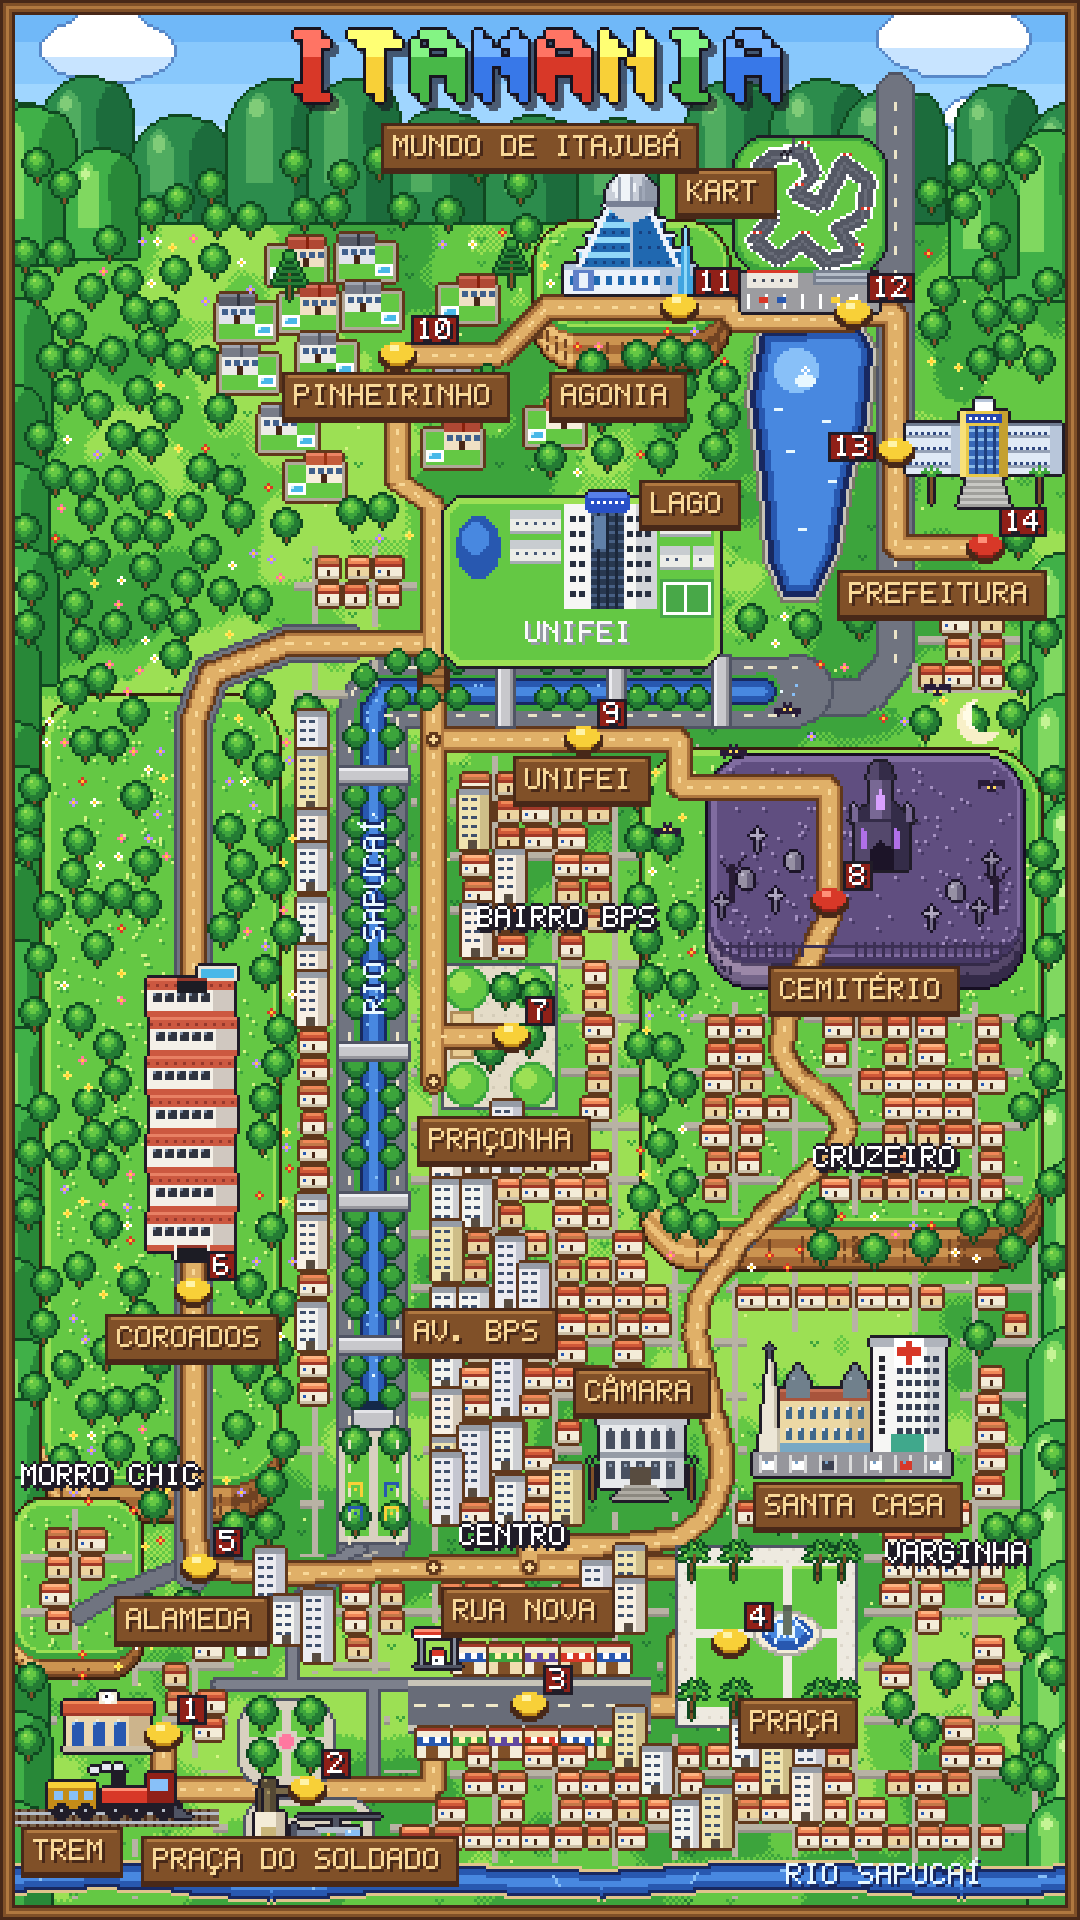
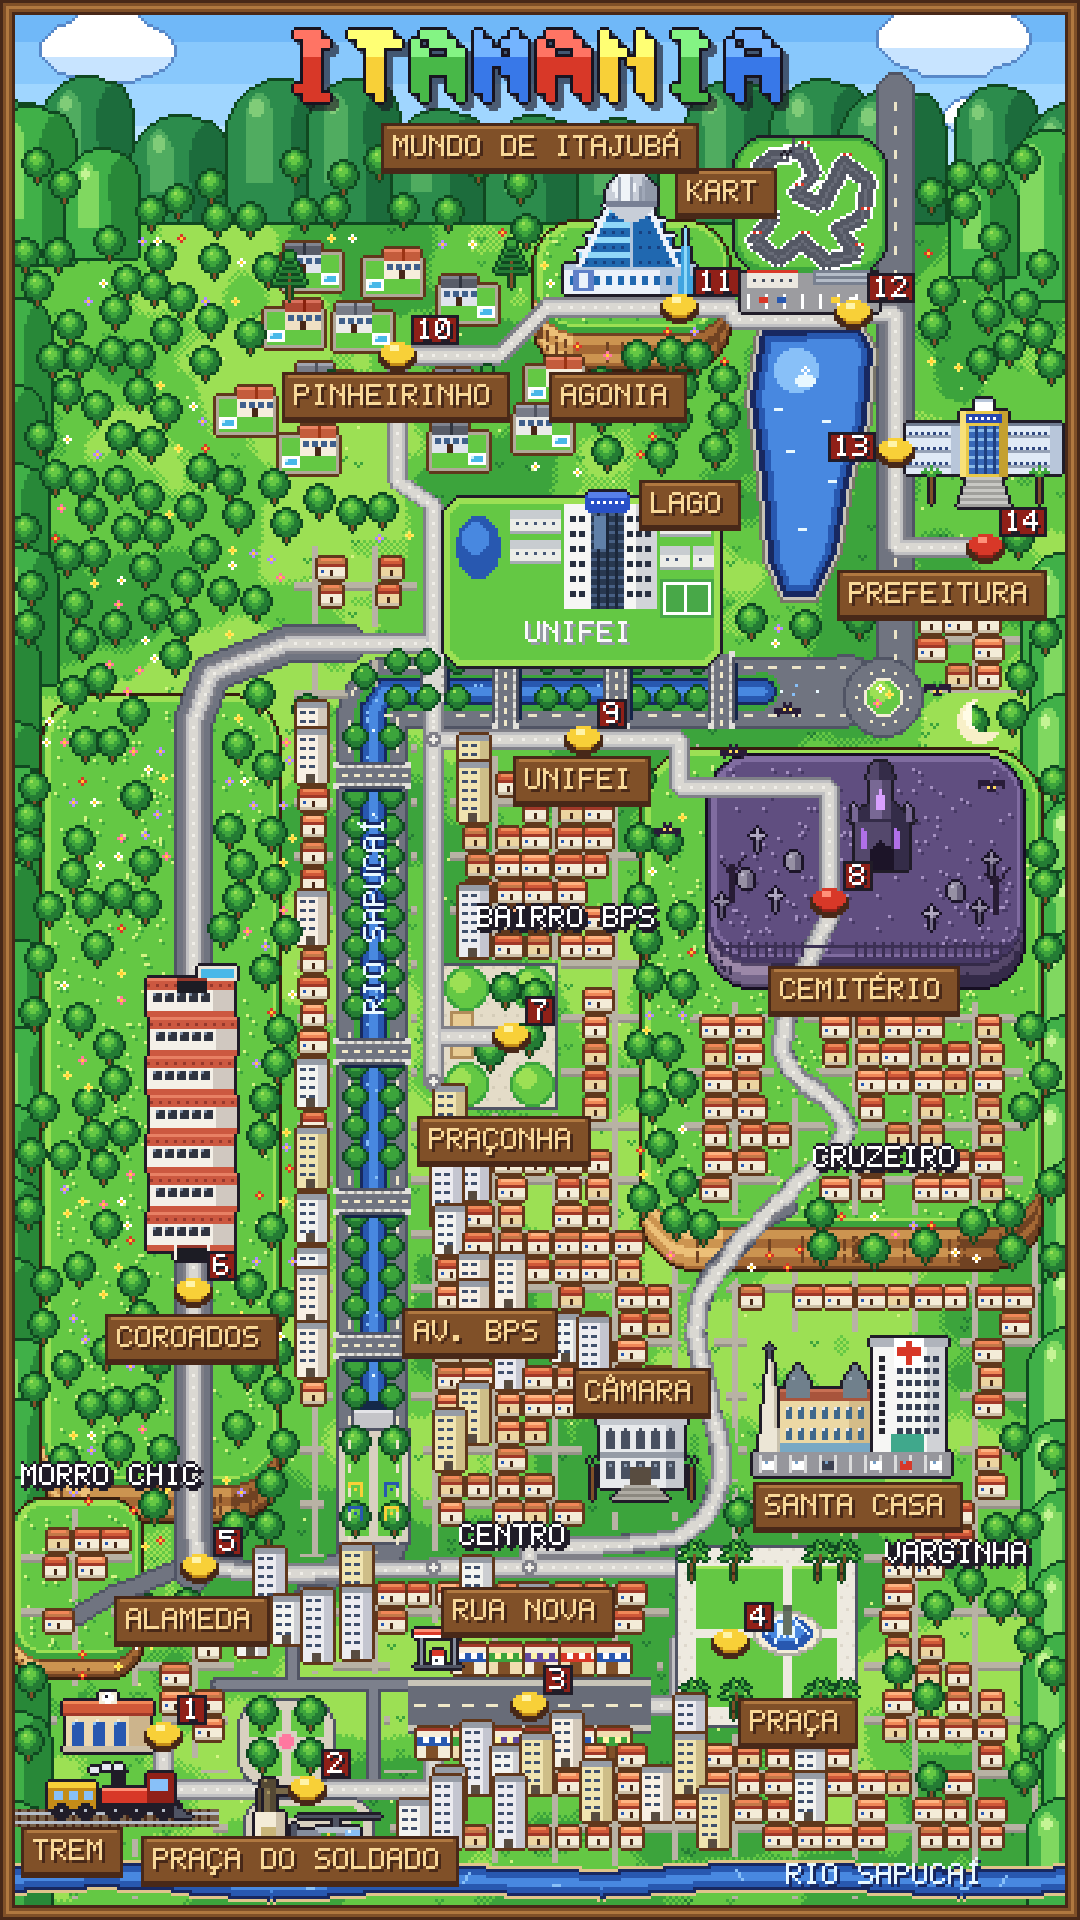
Mapa do Itamania: pontes harmônicas, trilhas de pedra clara e rotatória
Pontes com deck de asfalto, mureta de pedra e sombra na água; trilhas entre
as fases mais finas e em pedra cinza-clara; rotatória no encontro da BPS com a
avenida da Prefeitura.

Claude-Session: https://claude.ai/code/session_01PQYRHDQbqQUf94eH7bEkMV

diff --git a/ferramentas/mapa-mundi/gerar_mapa.py b/ferramentas/mapa-mundi/gerar_mapa.py
@@ -1433,6 +1433,43 @@ def palmeira(base, x, y):
     colar(base, s, x, y, C['gl'])
 
 
+def ponte(d, cx, cy, vao, larg, vertical, deck=(112, 116, 128), faixa=True):
+    """Ponte bonitinha: deck do mesmo asfalto da rua, mureta de pedra clara com pilaretes, e sombra na água.
+    vertical=True: a ponte atravessa um rio que corre na horizontal (deck de pé)."""
+    pedra, pedra2, contorno_ = (226, 224, 218), (170, 168, 162), C['ci0']
+    h = larg // 2
+    if not vertical:
+        x0, x1 = cx - vao // 2, cx + vao // 2
+        ret(d, x0 + 3, cy + h + 2, x1 - 3, cy + h + 3, (20, 36, 72))      # sombra na água
+        ret(d, x0, cy - h - 2, x1, cy + h + 2, contorno_)
+        ret(d, x0, cy - h, x1, cy + h, deck)
+        for yy in (cy - h - 1, cy + h + 1):
+            ret(d, x0, yy, x1, yy, pedra)
+            for xx in range(x0, x1 + 1, 3):
+                px(d, xx, yy, pedra2)
+        for xx in (x0, x1):
+            ret(d, xx - 1, cy - h - 2, xx, cy - h - 1, pedra)
+            ret(d, xx - 1, cy + h + 1, xx, cy + h + 2, pedra)
+        if faixa:
+            for xx in range(x0 + 2, x1 - 1, 4):
+                ret(d, xx, cy, xx + 1, cy, (240, 232, 200))
+    else:
+        y0, y1 = cy - vao // 2, cy + vao // 2
+        ret(d, cx + h + 2, y0 + 3, cx + h + 3, y1 - 3, (20, 36, 72))
+        ret(d, cx - h - 2, y0, cx + h + 2, y1, contorno_)
+        ret(d, cx - h, y0, cx + h, y1, deck)
+        for xx in (cx - h - 1, cx + h + 1):
+            ret(d, xx, y0, xx, y1, pedra)
+            for yy in range(y0, y1 + 1, 3):
+                px(d, xx, yy, pedra2)
+        for yy in (y0, y1):
+            ret(d, cx - h - 2, yy - 1, cx - h - 1, yy, pedra)
+            ret(d, cx + h + 1, yy - 1, cx + h + 2, yy, pedra)
+        if faixa:
+            for yy in range(y0 + 2, y1 - 1, 4):
+                ret(d, cx, yy, cx, yy + 1, (240, 232, 200))
+
+
 # ---------------------------------------------------------------- mapa (em pé)
 def main():
     base = terreno()
@@ -1486,13 +1523,13 @@ def main():
 
     # ----- Av. BPS: eixo central da cidade, com o rio correndo no meio, até o lago
     # Av. Dr. Jerson Dias: corre de norte a sul a leste do lago e do kart e encontra a BPS
-    jerson = [(298, 30), (298, 220), (288, 232), (262, 232)]
+    jerson = [(298, 30), (298, 222)]
     linha_grossa(d, jerson, 13, C['ci0'])
     linha_grossa(d, jerson, 11, (112, 116, 128))
     for y in range(34, 220, 8):
         ret(d, 298, y, 298, y + 2, (236, 228, 200))
     dl.line(jerson, fill=255, width=15)
-    eixo = [(124, 514), (124, 236), (128, 230), (266, 230)]
+    eixo = [(124, 514), (124, 236), (128, 230), (282, 230)]
     # o Rio Sapucaí corre no meio da BPS só daqui (y 470) até o lago; abaixo disso ele passa por baixo de uma
     # ponte e segue coberto pelo asfalto (informação do Pedro, 04/11/2026)
     FIM_RIO = 470
@@ -1579,6 +1616,20 @@ def main():
     dl.line(rua_alameda, fill=255, width=9)
     dl.rectangle([78, 528, 110, 556], fill=255)   # prédios entre a Alameda e a Rua Nova
     dl.rectangle([108, 470, 140, 516], fill=255)  # pracinha da Unimed
+
+    # rotatória onde a BPS encontra a avenida da Prefeitura
+    RX, RY = 294, 232
+    d.ellipse([RX - 13, RY - 13, RX + 13, RY + 13], fill=rgba(C['ci0']))
+    d.ellipse([RX - 12, RY - 12, RX + 12, RY + 12], fill=rgba((112, 116, 128)))
+    for k in range(12):
+        a = k * math.pi / 6
+        px(d, round(RX + 9 * math.cos(a)), round(RY + 9 * math.sin(a)), (240, 232, 200))
+    d.ellipse([RX - 6, RY - 6, RX + 6, RY + 6], fill=rgba(C['pa']))
+    d.ellipse([RX - 5, RY - 5, RX + 5, RY + 5], fill=rgba(C['g2']))
+    d.ellipse([RX - 4, RY - 5, RX + 2, RY + 1], fill=rgba(C['g3']))
+    for fx, fy in [(RX - 2, RY + 2), (RX + 2, RY - 1), (RX - 1, RY - 3)]:
+        flor(base, fx, fy, random.choice([(255, 120, 160), C['br'], (255, 236, 96)]))
+    dl.ellipse([RX - 15, RY - 15, RX + 15, RY + 15], fill=255)
 
     # ----- marcos fixos
     lago_parque(base, dl)
@@ -1765,23 +1816,24 @@ def main():
     for tx, ty in [(168, 336), (176, 352), (163, 357), (178, 338)]:
         arvore(base, tx, ty, 0)
 
+    TRILHA = [(128, 128, 136), (192, 192, 194), (218, 216, 210), (240, 238, 232)]
     for r in ROTAS:
-        linha_grossa(d, r, 9, C['c0'])
+        linha_grossa(d, r, 7, TRILHA[0])
     for r in ROTAS:
-        linha_grossa(d, r, 7, C['c1'])
-        linha_grossa(d, r, 5, C['c2'])
+        linha_grossa(d, r, 5, TRILHA[1])
+        linha_grossa(d, r, 3, TRILHA[2])
     for r in ROTAS:
         tot = 0
         for (x0, y0), (x1, y1) in zip(r, r[1:]):
             seg = math.hypot(x1 - x0, y1 - y0)
             k = 0
             while k < seg:
-                if int(tot + k) % 6 < 2:
+                if int(tot + k) % 4 == 0:
                     t = k / seg
-                    d.point((round(x0 + (x1 - x0) * t), round(y0 + (y1 - y0) * t)), fill=rgba(C['c3']))
+                    d.point((round(x0 + (x1 - x0) * t), round(y0 + (y1 - y0) * t)), fill=rgba(TRILHA[3]))
                 k += 1
             tot += seg
-    # pontes de madeira onde a rota cruza o rio
+    # pontes de pedra clara onde a trilha cruza o rio
     feitas = []
     for r in ROTAS:
         for (x0, y0), (x1, y1) in zip(r, r[1:]):
@@ -1792,16 +1844,7 @@ def main():
                 if 0 <= y < H and 0 <= x < W and rio_a[y, x] and all(math.hypot(x - a, y - b) > 10 for a, b in feitas):
                     feitas.append((x, y))
                     horiz = abs(x1 - x0) > abs(y1 - y0)
-                    if horiz:
-                        ret(d, x - 7, y - 5, x + 7, y + 5, C['mad0'])
-                        for xx in range(x - 6, x + 7):
-                            ret(d, xx, y - 3, xx, y + 3, C['mad2'] if xx % 3 else C['mad1'])
-                        ret(d, x - 7, y - 5, x + 7, y - 4, C['mad3'])
-                        ret(d, x - 7, y + 4, x + 7, y + 5, C['mad1'])
-                    else:
-                        ret(d, x - 5, y - 7, x + 5, y + 7, C['mad0'])
-                        for yy in range(y - 6, y + 7):
-                            ret(d, x - 3, yy, x + 3, yy, C['mad2'] if yy % 3 else C['mad1'])
+                    ponte(d, x, y, 14, 4, not horiz, deck=TRILHA[2], faixa=False)
 
     # ----- Praça Theodomiro Santiago (praça central): piso claro, gramado, caminhos em cruz, fonte redonda com
     # jatos e o busto, e palmeiras (pedido do Pedro, 04/11/2026)
@@ -1911,17 +1954,11 @@ def main():
                    any(abs(tx - b) < 7 for b in PONTES_H) and nx == 0:
                     continue
                 colar(base, ar, tx, ty, C['gl'])
+    d2 = ImageDraw.Draw(base)
     for b in PONTES_V:  # pontes atravessando a parte norte-sul do rio
-        ret(d2 := ImageDraw.Draw(base), 112, b - 3, 136, b + 3, C['ci0'])
-        ret(d2, 113, b - 2, 135, b + 2, (200, 200, 204))
-        ret(d2, 113, b - 2, 135, b - 2, (236, 236, 240))
-        ret(d2, 113, b + 2, 135, b + 2, (150, 150, 156))
+        ponte(d2, 124, b, 24, 4, False)
     for b in PONTES_H:  # pontes atravessando a parte leste-oeste
-        d2 = ImageDraw.Draw(base)
-        ret(d2, b - 3, 218, b + 3, 242, C['ci0'])
-        ret(d2, b - 2, 219, b + 2, 241, (200, 200, 204))
-        ret(d2, b - 2, 219, b - 2, 241, (236, 236, 240))
-        ret(d2, b + 2, 219, b + 2, 241, (150, 150, 156))
+        ponte(d2, b, 230, 24, 4, True)
 
     # flores espalhadas na grama (fora da cidade, das ruas e dos planaltos escuros)
     cores_flor = [C['br'], (255, 120, 160), C['vm'], (255, 236, 96), (176, 140, 255)]
@@ -1981,8 +2018,8 @@ def main():
     d = ImageDraw.Draw(base)
     for nome, (x, y) in N.items():
         if nome.startswith('j'):
-            d.ellipse([x - 2, y - 2, x + 2, y + 2], fill=rgba(C['c0']))
-            d.ellipse([x - 1, y - 1, x + 1, y + 1], fill=rgba(C['c3']))
+            d.ellipse([x - 2, y - 2, x + 2, y + 2], fill=rgba((128, 128, 136)))
+            d.ellipse([x - 1, y - 1, x + 1, y + 1], fill=rgba((240, 238, 232)))
             continue
         cor, cor2, cor3 = (C['vm'], C['vm2'], C['vm3']) if nome in ('prefeitura', 'cemiterio') else \
             (C['am'], C['am2'], C['am3'])

diff --git a/references/mapa/proposta-mapa.md b/references/mapa/proposta-mapa.md
@@ -160,6 +160,15 @@ Os nomes dos bairros aparecem escritos no chão.
 - **Placas:** "PRAÇA" foi para dentro da praça e "PRAÇA DO SOLDADO" foi para o lado da placa do trem, nas posições do
   print.
 
+## Pontes, trilhas e rotatória (Pedro, 04/11/2026)
+
+- **Pontes:** todas no mesmo estilo, com deck do mesmo asfalto das ruas (ou de pedra clara, nas da trilha), mureta de
+  pedra clara com pilaretes, sombra na água e faixa no meio nas da avenida.
+- **Trilhas entre as fases:** estavam de terra marrom. Ficaram mais finas e de pedra cinza-clara, quase um asfalto claro.
+  Os pontinhos de cruzamento também ficaram cinza.
+- **Rotatória:** a curva entre o fim da BPS e a avenida da Prefeitura virou uma rotatória com canteiro verde e flores no
+  meio.
+
 ## O que o mapa mostra
 
 - **Formato em pé.** O eixo central de Itajubá é a **Av. BPS**, com o **Rio Sapucaí** correndo no meio dela. A avenida sobe pela
